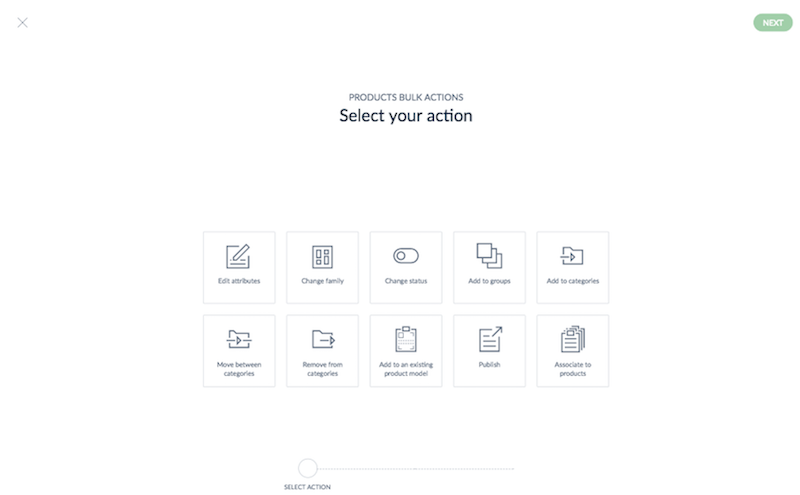
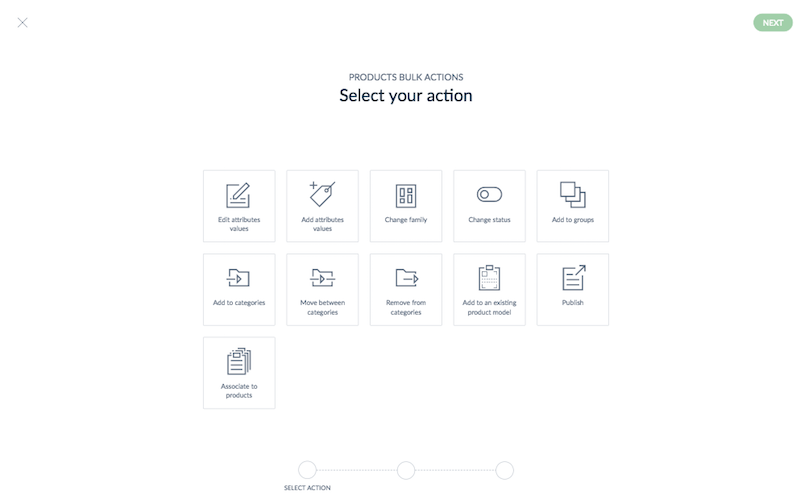
Add images

diff --git a/content/md/products-super-power/product-mass-actions.md b/content/md/products-super-power/product-mass-actions.md
@@ -93,7 +93,7 @@ To ease the mass enrichment of products attributes values, you can edit the attr
 2.  Select the products to edit: tick the products you want to add via the down arrow of the toolbar: `All` for all the products recorded, `All visible` for all visible products on the ongoing page, `none` for none of the products
 3.  Click on `Bulk Actions`
 4.  Select `Edit attributes values` and then `Next`
-5.  Click on `Select attributes` to select the attributes you want to update (for example the collection and the brand)
+5.  Click on `Select attributes` to select the attributes you want to update (for example the brand)
 6.  Add values for the selected attributes
 ![Mass edit options](../img/Products_BulkActionEditAttribute.png)
 7.  Click on `Next`
@@ -117,6 +117,7 @@ Only the multivalued attributes can be updated with this bulk action, so the att
 4.  Select `Add attributes values` and then `Next`
 5.  Click on `Select attributes` to select the attributes you want to update (for example the collection)
 6.  Add values for the selected attributes
+![Mass edit options](../img/Products_BulkActionAddAttribute.png)
 7.  Click on `Next`
 8.  Confirm the action with the `Confirm` button located in the middle of the screen
 9.  The attributes values will be added in the selected products. The previous attributes values are kept.
